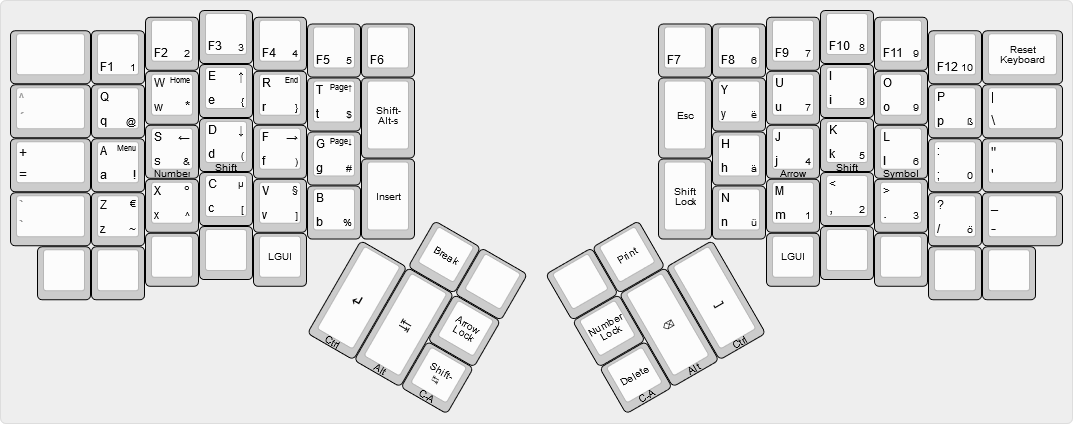
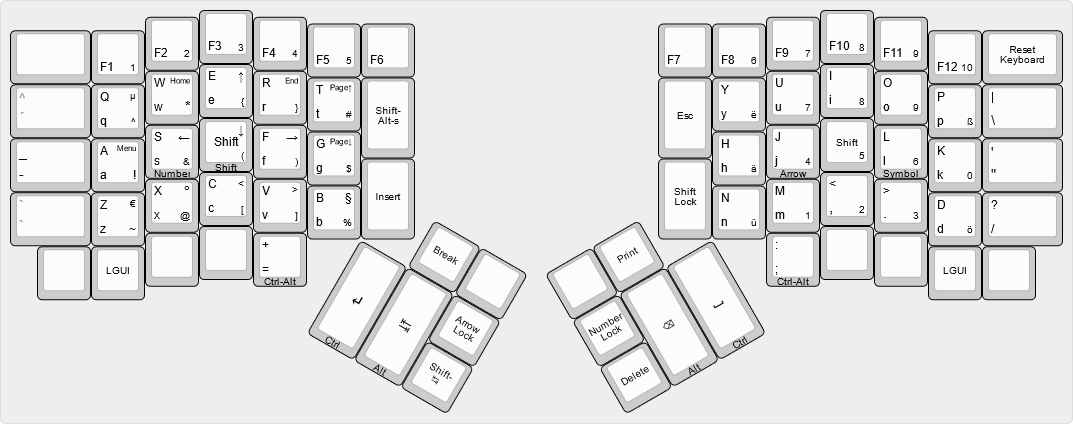
Updates keyboard layout image

diff --git a/keyboards/ergodox_ez/keymaps/wramos/keymap.c b/keyboards/ergodox_ez/keymaps/wramos/keymap.c
@@ -238,11 +238,11 @@ const uint16_t PROGMEM keymaps[][MATRIX_ROWS][MATRIX_COLS] = {
 
 [BASE] = LAYOUT_ergodox(
 // left hand
-KC_NO,   KC_F1, KC_F2,         KC_F3,             KC_F4,   KC_F5, KC_F6,
-KC_NUBS, KC_Q,  KC_W,          KC_E,              KC_R,    KC_T,  KC_LGUI,
-KC_MINS, KC_A,  LT(NUMB,KC_S), KC_LSFT,           KC_F,    KC_G,
-KC_GRV,  KC_Y,  KC_X,          KC_C,              KC_V,    KC_B,  KC_INS,
-KC_NO,   KC_NO, KC_NO,         KC_NO,             MT(MOD_LCTL|MOD_LALT,KC_EQL),
+KC_NO,   KC_F1,   KC_F2,         KC_F3,             KC_F4,   KC_F5, KC_F6,
+KC_NUBS, KC_Q,    KC_W,          KC_E,              KC_R,    KC_T,  LSFT(LALT(KC_S)),
+KC_MINS, KC_A,    LT(NUMB,KC_S), KC_LSFT,           KC_F,    KC_G,
+KC_GRV,  KC_Y,    KC_X,          KC_C,              KC_V,    KC_B,  KC_INS,
+KC_NO,   KC_LGUI, KC_NO,         KC_NO,             MT(MOD_LCTL|MOD_LALT,KC_EQL),
 _NOKEY               KC_PAUSE,            KC_NO,
 _NOKEY               _NOKEY               TG(ARRW),
 MT(MOD_LCTL,KC_ENT), MT(MOD_LALT,KC_TAB), LSFT(KC_TAB),
@@ -251,8 +251,8 @@ MT(MOD_LCTL,KC_ENT), MT(MOD_LALT,KC_TAB), LSFT(KC_TAB),
 KC_F7,    KC_F8,  KC_F9,                            KC_F10,  KC_F11,        KC_F12,  EEPROM_RESET,
 KC_ESC,   KC_Z,   KC_U,                             KC_I,    KC_O,          KC_P,    KC_BSLS,
 _NOKEY    KC_H,   LT(ARRW,KC_J),                    KC_LSFT, LT(SYMB,KC_L), KC_K,    INV_QUOTE,
-TG(SHFT), KC_N,   KC_M,                             KC_COMM, KC_DOT,        KC_D,  KC_SLSH,
-_NOKEY    _NOKEY  MT(MOD_LCTL|MOD_LALT,KC_SCLN),    KC_NO,   KC_NO,         KC_NO,   KC_NO,
+TG(SHFT), KC_N,   KC_M,                             KC_COMM, KC_DOT,        KC_D,    KC_SLSH,
+_NOKEY    _NOKEY  MT(MOD_LCTL|MOD_LALT,KC_SCLN),    KC_NO,   KC_NO,         KC_LGUI, KC_NO,
 KC_NO,                        KC_PSCR,
 TG(NUMB),
 KC_DEL, MT(MOD_LALT,KC_BSPC), MT(MOD_LCTL,KC_SPC)
@@ -327,7 +327,7 @@ KC_TRNS, KC_TRNS, KC_TRNS
 CAPS_NUBS, KC_TRNS,   KC_TRNS, KC_TRNS, KC_TRNS,   KC_TRNS, KC_TRNS,
 KC_TRNS,   CAPS_M,    KC_HOME, KC_UP,   KC_END,    KC_PGUP, LSFT(LALT(KC_S)),
 KC_TRNS,   KC_APP,    KC_LEFT, KC_DOWN, KC_RGHT,   KC_PGDN,
-KC_TRNS,   CAPS_SLSH, CAPS_D,  ,  KC_GT,     CAPS_BSLS, KC_TRNS,
+KC_TRNS,   CAPS_SLSH, CAPS_D,  KC_LT,   KC_GT,     CAPS_BSLS, KC_TRNS,
 CAPS_GRV,  KC_TRNS,   KC_TRNS, KC_TRNS, KC_TRNS,
 _NOKEY   KC_TRNS, KC_TRNS,
 _NOKEY   _NOKEY   KC_TRNS,
